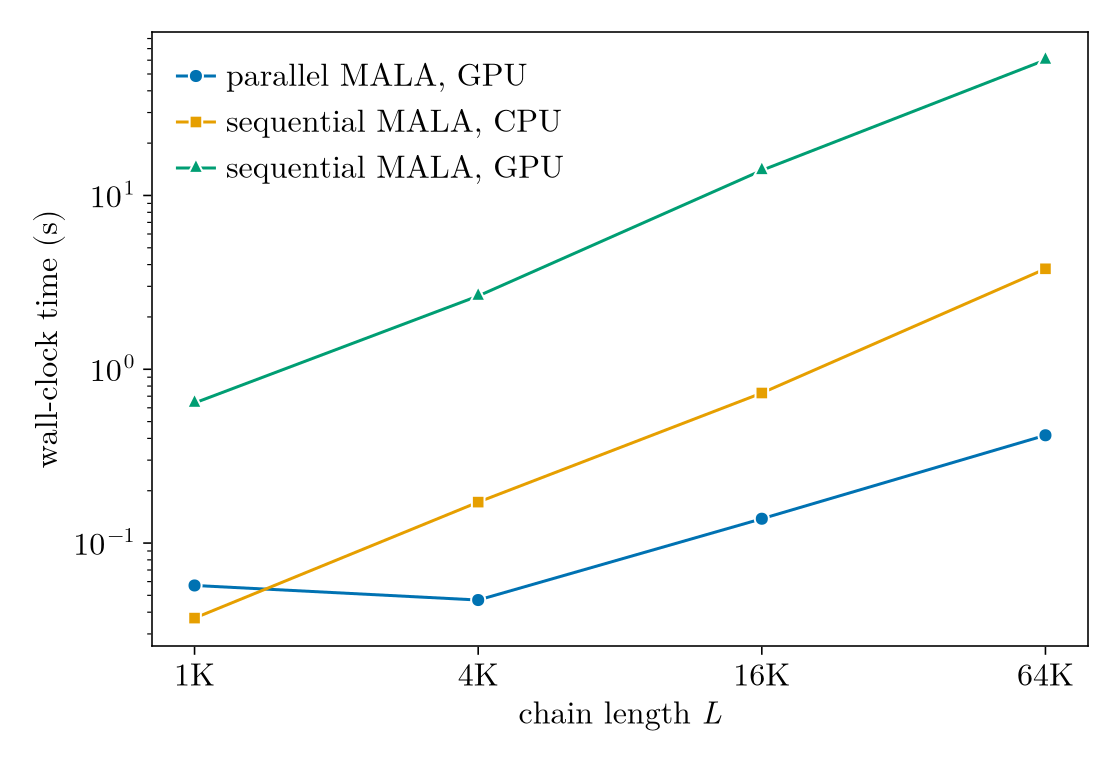
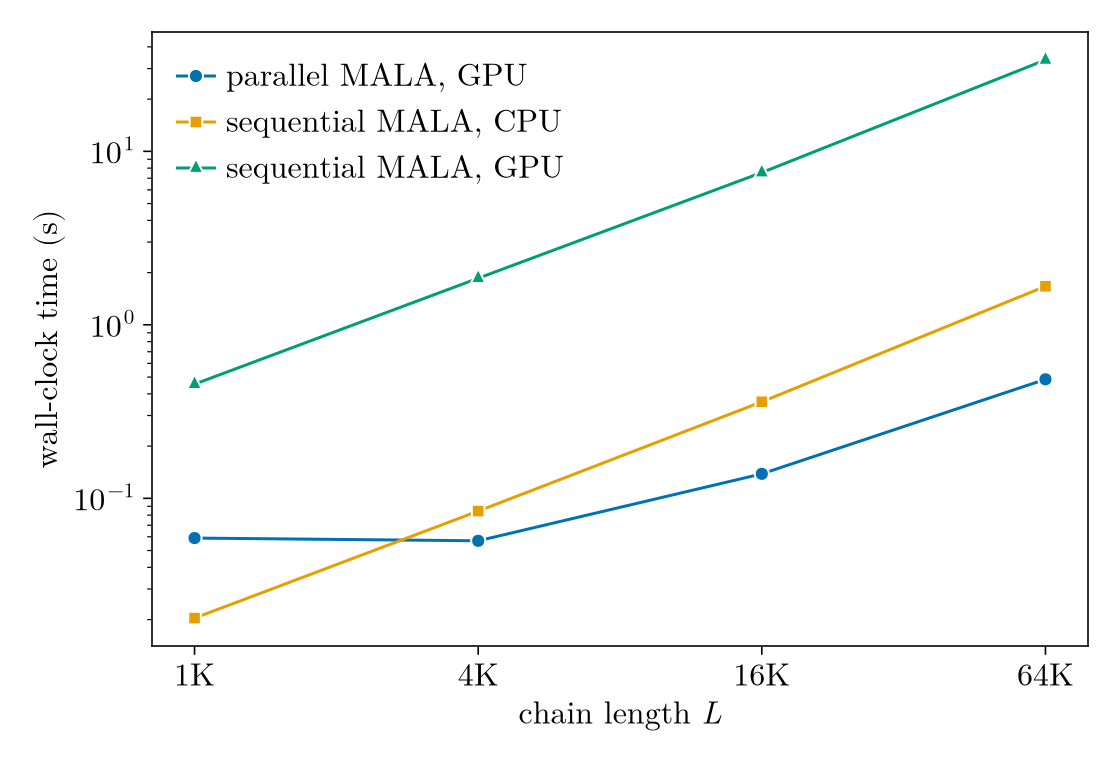
Refresh German Credit timings after MALA caching (#81)
Rerun the benchmark now that sequential MALA evaluates logp and the gradient
once per step. At L = 64 000 the parallel sampler is 3.4 times faster than
sequential MALA on the CPU (was 9) and 69 times faster than on the GPU (was
140). Regenerate the figure from the new CSV.

The README now says the parallel chain matches the sequential one up to the
solver tolerance except at near-tie accept decisions: in one 16 000-step run a
decision 7e-5 from the threshold flipped and the chains rejoined 43 steps
later.

diff --git a/README.md b/README.md
@@ -37,16 +37,17 @@ The approach and its scaling tricks (stochastic Hutchinson Jacobian estimators, 
 
 We repeat the Bayesian logistic regression of Zoltowski et al. (2025, Section 5.2) on the German Credit data, with whitened covariates, an intercept, and a $\mathcal{N}(0, I)$ prior, so the posterior has 25 dimensions.
 Each method draws one chain of $L$ samples with step size $\varepsilon = 0.0015$, which accepts about 85% of proposals.
-`ParallelMALASampler` solves the whole chain as one block and reproduces the sequential chain to within its tolerance of $5 \times 10^{-4}$.
+`ParallelMALASampler` solves the whole chain as one block, and its samples match the sequential chain step for step up to the solver tolerance of $5 \times 10^{-4}$.
+The exception is an accept decision that falls within that tolerance of the threshold: in one 16 000-step run a single such decision flipped, and the two chains rejoined 43 steps later.
 
 <p align="center">
   <img src="docs/src/assets/german_credit.png" alt="Wall-clock time against chain length for parallel MALA on the GPU and sequential MALA on the CPU and GPU" width="560">
 </p>
 
-At $L = 64\,000$ the parallel sampler is 9 times faster than sequential MALA on the CPU and 140 times faster than sequential MALA on the GPU.
-These timings come from one RTX 5090 and a 12-thread CPU under Windows, where sequential CPU MALA runs slower than under Linux.
-Sequential MALA on a GPU pays for kernel launches at every step, so it trails the CPU at this size.
-The paper compiles its sequential baseline with JAX, which narrows that gap, and reports parallel speedups of 20 to 30 times.
+At $L = 64\,000$ the parallel sampler is 3.4 times faster than sequential MALA on the CPU and 69 times faster than sequential MALA on the GPU.
+These timings come from one RTX 5090 and a 12-thread CPU under Windows.
+Sequential MALA on a GPU waits for the device several times per step to make each accept decision on the host, so it trails the CPU at this size.
+The paper compiles its sequential baseline with JAX, which keeps the whole loop on the device, and reports parallel speedups of 20 to 30 times.
 The script is [`benchmarks/ParallelMCMCBenchmarks/scripts/german_credit.jl`](benchmarks/ParallelMCMCBenchmarks/scripts/german_credit.jl).
 
 ### Samplers
